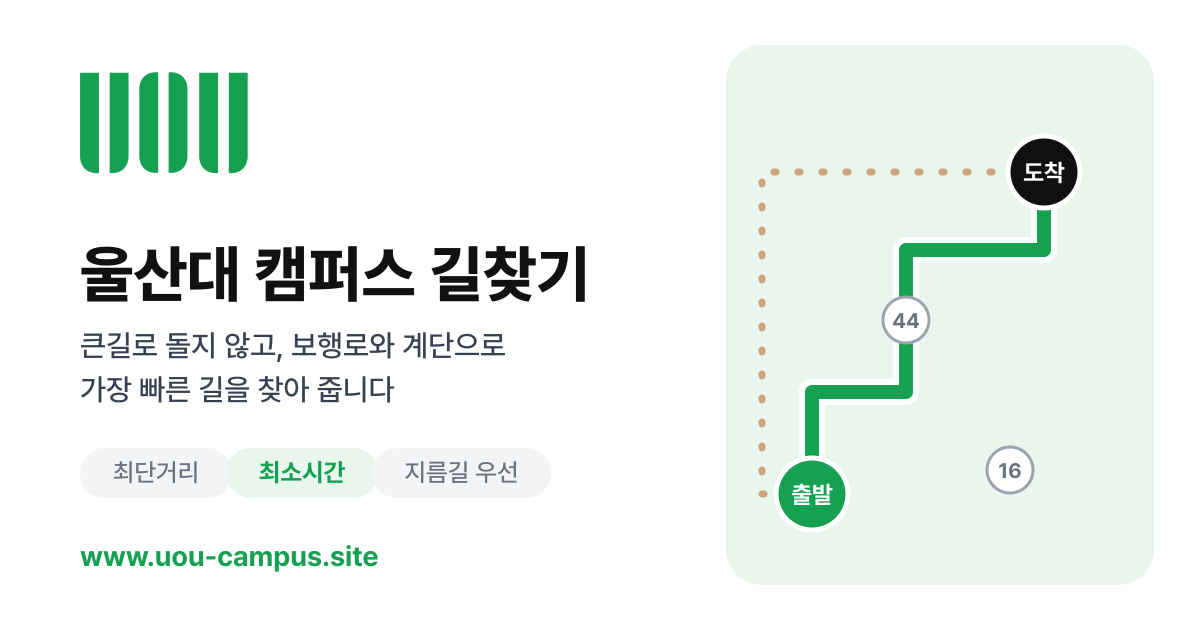
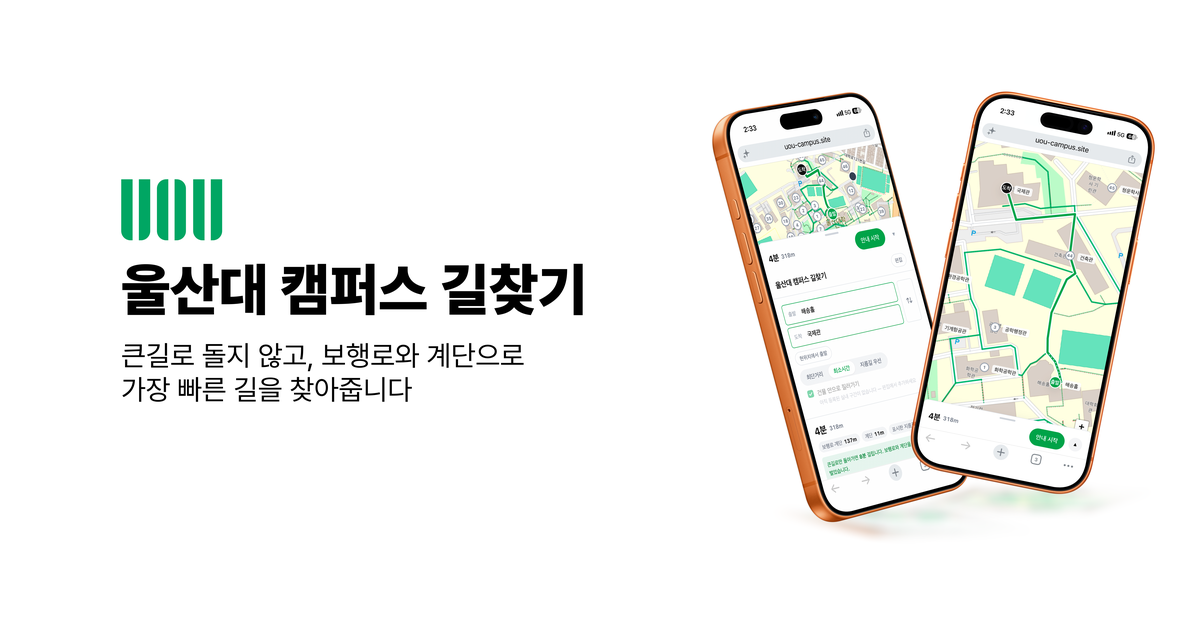
feat: 링크 미리보기 그림을 직접 디자인한 것으로 바꾼다
목업 두 장을 세운 그림을 새로 받았다. 자동으로 굽던 것보다 앱이 실제로 어떻게
생겼는지 잘 보여 준다.

받은 원본은 8464×4917 · 5.6MB · 투명 배경이라 그대로 쓰면 안 됐다. 셋 다 미리보기가
깨지는 조건이다 — 비율이 1.91 이 아니면 잘리고, 투명하면 어두운 화면을 쓰는 앱에서
글씨가 안 보이고, 5MB 가 넘으면 크롤러가 건너뛴다.

가로는 그대로 두고 세로만 잘라 1.91 을 맞췄다. 좌우를 자르면 디자인한 균형이
무너진다. 흰 바닥에 얹고 1200×630 으로 줄여 229KB 가 됐다.

굽던 스크립트는 걷어낸다. 손으로 만든 그림이 실린 마당에 '이 스크립트가 만든다' 고
적힌 파일이 남아 있으면 다음에 고칠 때 헷갈린다. 대신 새로 그릴 때 맞춰야 할 것을
README 에 적어 뒀다.

diff --git a/index.html b/index.html
@@ -16,7 +16,7 @@
     <!--
       링크를 붙였을 때 뜨는 미리보기.
       그림과 주소는 절대 주소여야 한다 — 카톡·페이스북 크롤러는 상대 경로를 못 읽는다.
-      그림은 scripts/make-og.mjs 가 굽는다.
+      그림(public/og.png)은 손으로 디자인해 1200×630 으로 맞춘 것이다.
     -->
     <meta property="og:type" content="website" />
     <meta property="og:site_name" content="울산대 캠퍼스 길찾기" />
@@ -32,7 +32,7 @@
     <meta property="og:image:height" content="630" />
     <meta
       property="og:image:alt"
-      content="울산대 캠퍼스 길찾기 — 출발과 도착을 잇는 초록 경로"
+      content="울산대 캠퍼스 길찾기 — 캠퍼스 경로가 그려진 화면 두 장"
     />
     <meta name="twitter:card" content="summary_large_image" />
 
